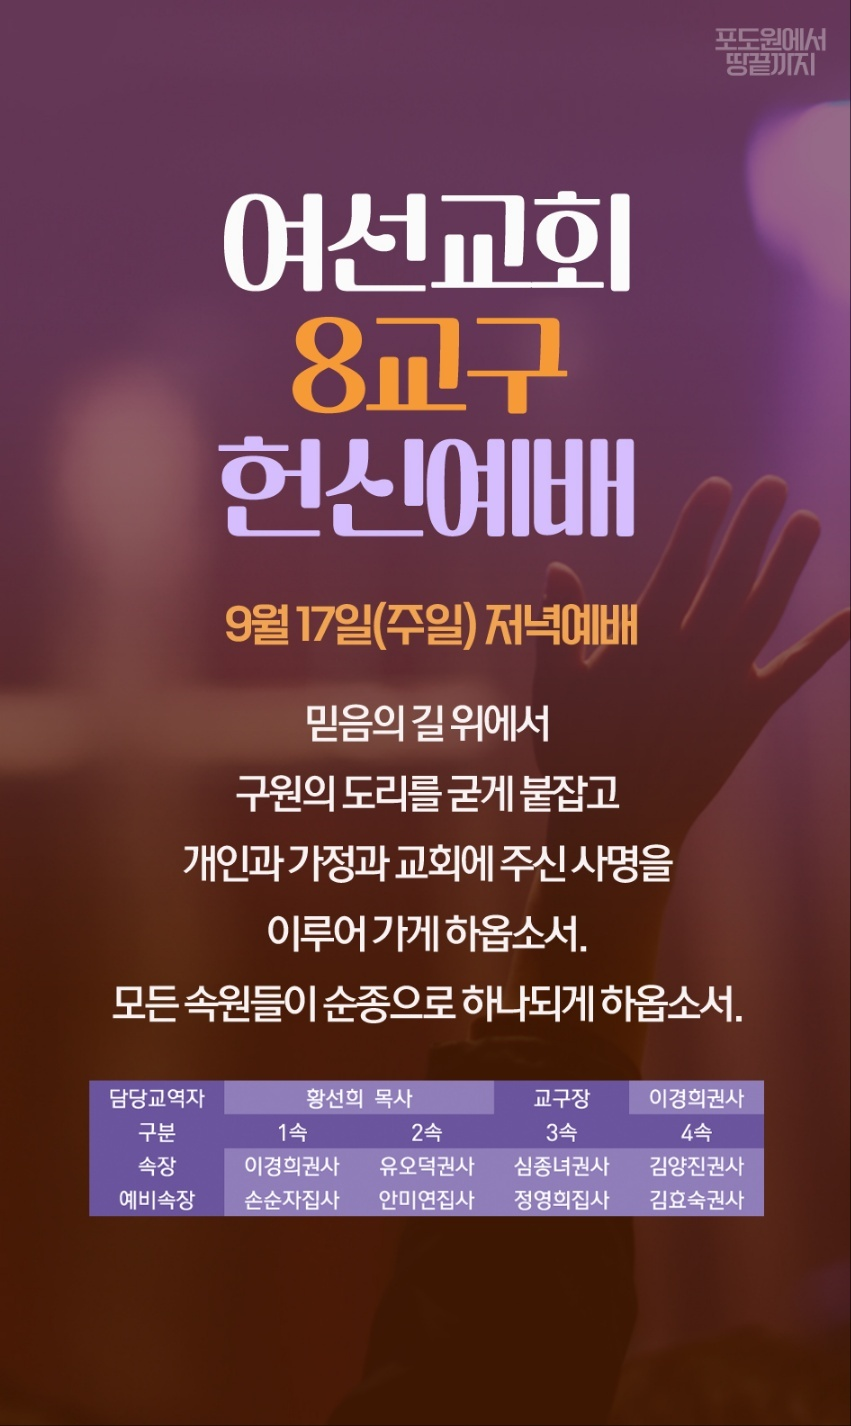
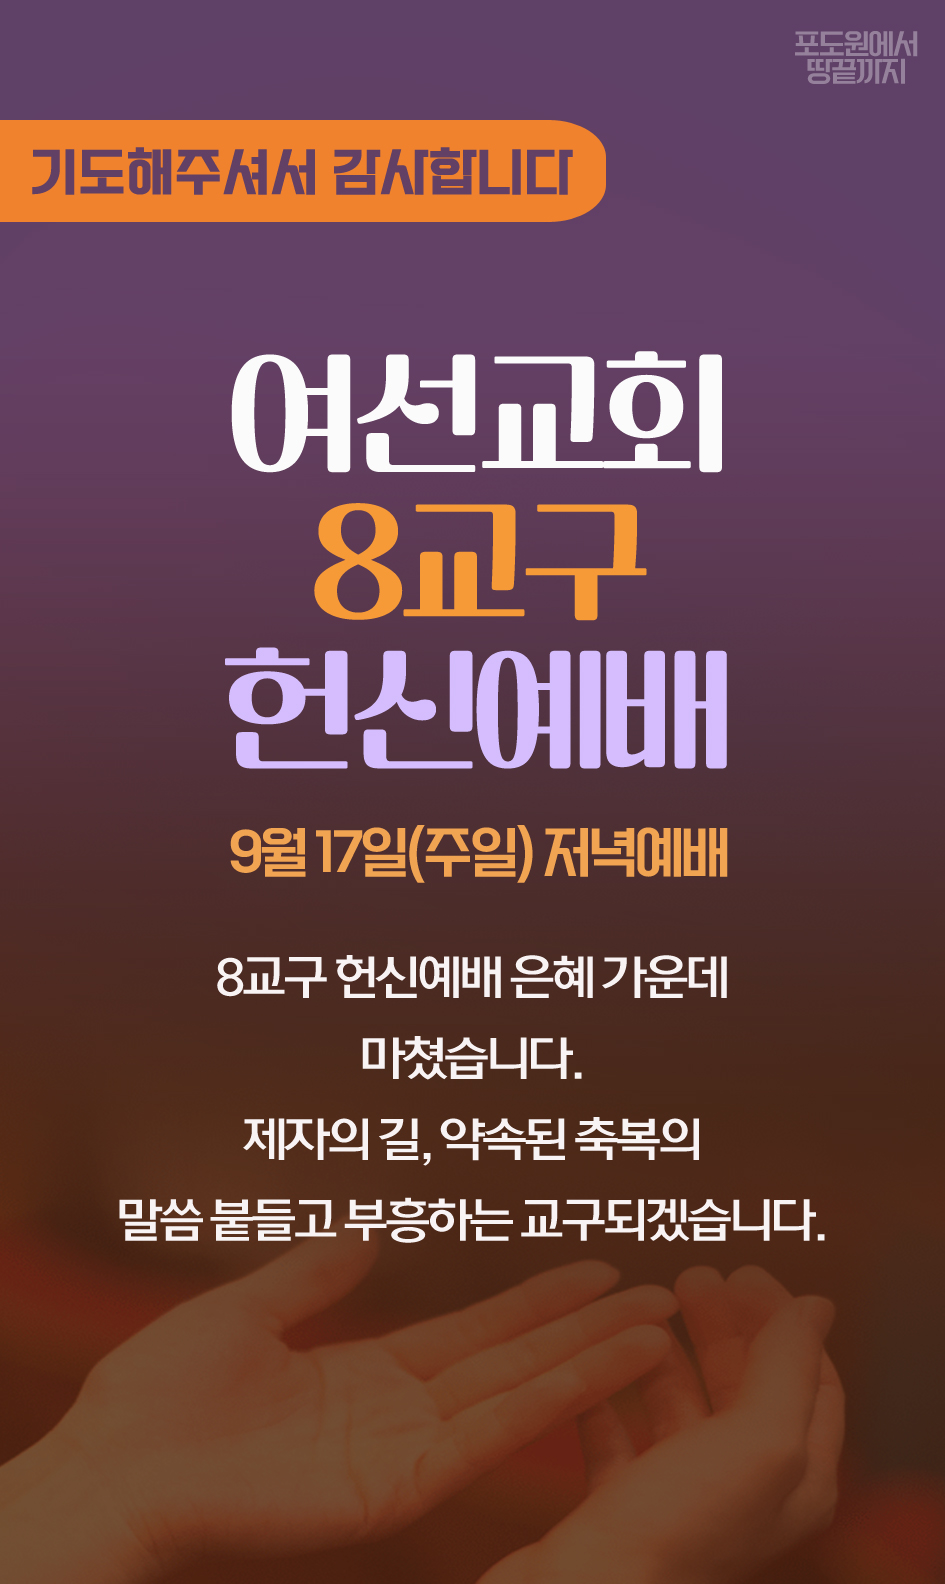
0922

diff --git a/digital.html b/digital.html
@@ -84,45 +84,29 @@
                    
                     <img src="asset/image/digital/표어_2023.jpg" class="mainImage">
                     <img src="asset/image/digital/하반기태신자전도선포.jpg" class="mainImage">
+                    <!-- <img src="asset/image/digital/예수생명길따라가기.jpg" class="mainImage"> -->
+
+                    <img src="asset/image/digital/청년회헌신예배.jpg" class="mainImage">
+                    <img src="asset/image/digital/추석가정예배.jpg" class="mainImage">
+                    <img src="asset/image/digital/새달새.jpg" class="mainImage">
+                    <img src="asset/image/digital/다시마판매.jpg" class="mainImage">
+                    <img src="asset/image/digital/교회성장모임.jpg" class="mainImage">
+                  
+                    <img src="asset/image/digital/풀뽑기.jpg" class="mainImage">
+                    <img src="asset/image/digital/풀뽑기_1.jpg" class="mainImage">
+                    <img src="asset/image/digital/구치소선교.jpg" class="mainImage">
+                    <img src="asset/image/digital/구치소선교_1.jpg" class="mainImage">
+                    <img src="asset/image/digital/구치소선교_2.jpg" class="mainImage">
                     <img src="asset/image/digital/여선교회8교구.jpg" class="mainImage">
-                    
-                    <img src="asset/image/digital/서울구치소.jpg" class="mainImage">
-           
-                  <img src="asset/image/digital/청년회헌신예배.jpg" class="mainImage">
-                    <img src="asset/image/digital/석면해체.jpg" class="mainImage">
-                    <img src="asset/image/digital/독거어르신.jpg" class="mainImage">
-                    <img src="asset/image/digital/남선교회수련회.jpg" class="mainImage">
-                    <img src="asset/image/digital/남선교회수련회_1.jpg" class="mainImage">
-                    <img src="asset/image/digital/남선교회수련회_2.jpg" class="mainImage">
-                    <img src="asset/image/digital/아동3예수제자.jpg" class="mainImage">
-                    <img src="asset/image/digital/아동3_1.jpg" class="mainImage">
-                    <img src="asset/image/digital/아동3_2.jpg" class="mainImage">
-                    <img src="asset/image/digital/아동2P마켓.jpg" class="mainImage">
-                    <img src="asset/image/digital/아동2_1.jpg" class="mainImage">
-                    <img src="asset/image/digital/아동2_2.jpg" class="mainImage">
-                    <img src="asset/image/digital/중등부.jpg" class="mainImage">
-                    <img src="asset/image/digital/중등부_1.jpg" class="mainImage">
-                    <img src="asset/image/digital/중등부_2.jpg" class="mainImage">
+                    <img src="asset/image/digital/여선교회8교구_1.jpg" class="mainImage">
+                    <img src="asset/image/digital/여선교회8교구_2.jpg" class="mainImage">
                     <div id="player"></div>
 
 
-                  
-                   
-                   
-                    <img src="asset/image/digital/온라인 헌금.jpg" class="mainImage">
-                    <!-- <iframe width="100%" height="315" src="https://youtube.com/embed/Jy_5b8v7MA8?si=ZBgjQYajpQicASwo"
-                        title="YouTube video player" class="myYoutube" frameborder="0"
-                        allow="accelerometer;  
-                        clipboard-write;
-                         encrypted-media;
-                          gyroscope; 
-                          picture-in-picture; 
-                          web-share"
-                        allowfullscreen
-                       
-                        ></iframe> -->
-                   
+
+                    <img src="asset/image/digital/포도원한가족.jpg" class="mainImage">
                     <img src="asset/image/digital/about_worship.jpg" class="mainImage">
+                    <img src="asset/image/digital/온라인 헌금.jpg" class="mainImage">
                     <img src="asset/image/digital/5대비전.jpg" class="mainImage">
                     <img src="asset/image/digital/about.jpg" class="mainImage">
                     <a href="http://www.podowonchurch.org/main.php?device=pc"><img src="asset/image/digital/gotohompage.jpg" class="mainImage"></a>

diff --git a/js/digital.js b/js/digital.js
@@ -107,9 +107,18 @@
 
     //플레이어 변수 설정
     var player;
+    var player2;
     var myaudio = document.getElementById('myaudio');
     function onYouTubeIframeAPIReady() {
         player = new YT.Player('player', {
+            videoId: 'zlLQMyuz9YE',
+            events: {
+                'onReady': onPlayerReady,//로딩중에 이벤트 실행한다
+                'onStateChange': onPlayerStateChange//플레이어 상태 변화 시 이벤트를 실행한다.
+
+            }
+        });
+        player2 = new YT.Player('player2', {
             videoId: 'PWxGSNSQhOE',
             events: {
                 'onReady': onPlayerReady,//로딩중에 이벤트 실행한다
